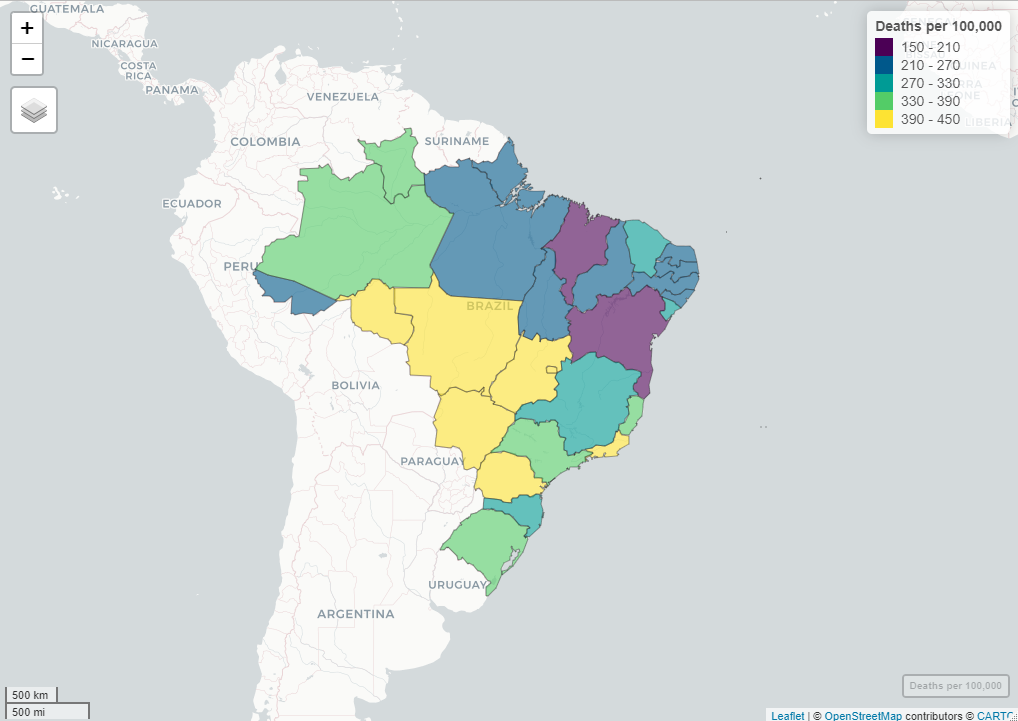
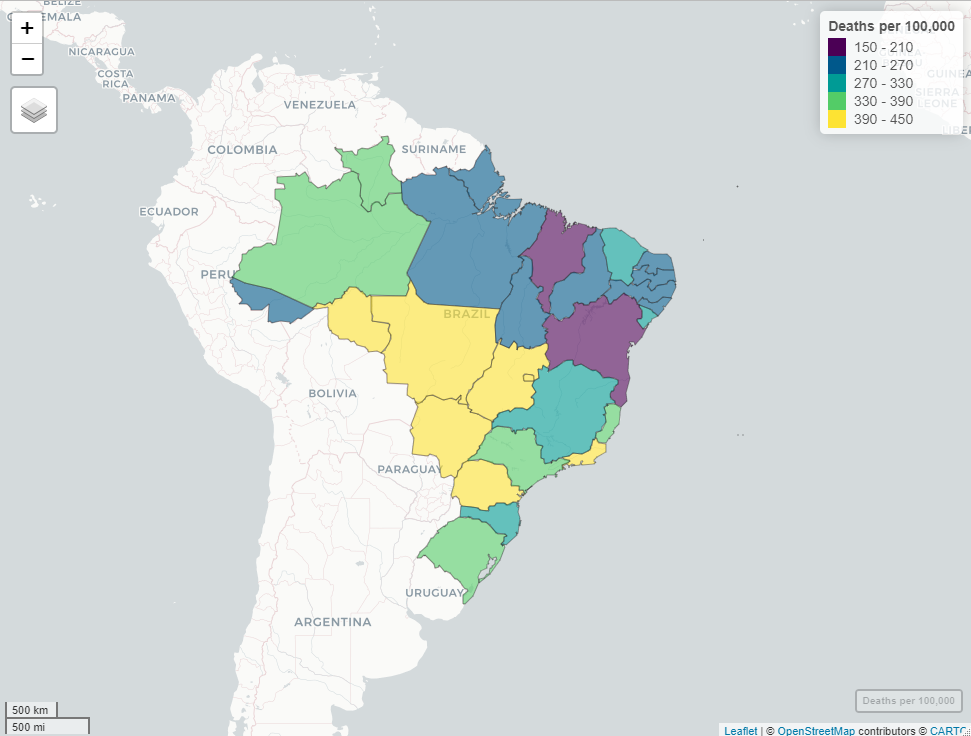
Update README file

diff --git a/README.md b/README.md
@@ -106,7 +106,7 @@ Saude (SUS)](https://www.gov.br/saude/pt-br). Data are available as of
 ## Cases accumulated per 100,000 inhabitants
 
 The graph below shows the number of cases accumulated in each Federative
-Unit of Brazil per 100,000 inhabitants (data for the day 2023-01-02).
+Unit of Brazil per 100,000 inhabitants (data for the day 2023-01-06).
 
 Data source: [Ministerio da Saude - Sistema Unico de Saude
 (SUS)](https://www.gov.br/saude/pt-br)
@@ -129,7 +129,7 @@ inhabitants for each of the 853 municipalities in the state Minas Gerais
 
 In turn, the next graph shows the number of deaths accumulated in each
 Federative Unit of Brazil per 100,000 inhabitants (data for the day
-2023-01-02).
+2023-01-06).
 
 Data source: [Ministerio da Saude - Sistema Unico de Saude
 (SUS)](https://www.gov.br/saude/pt-br)
